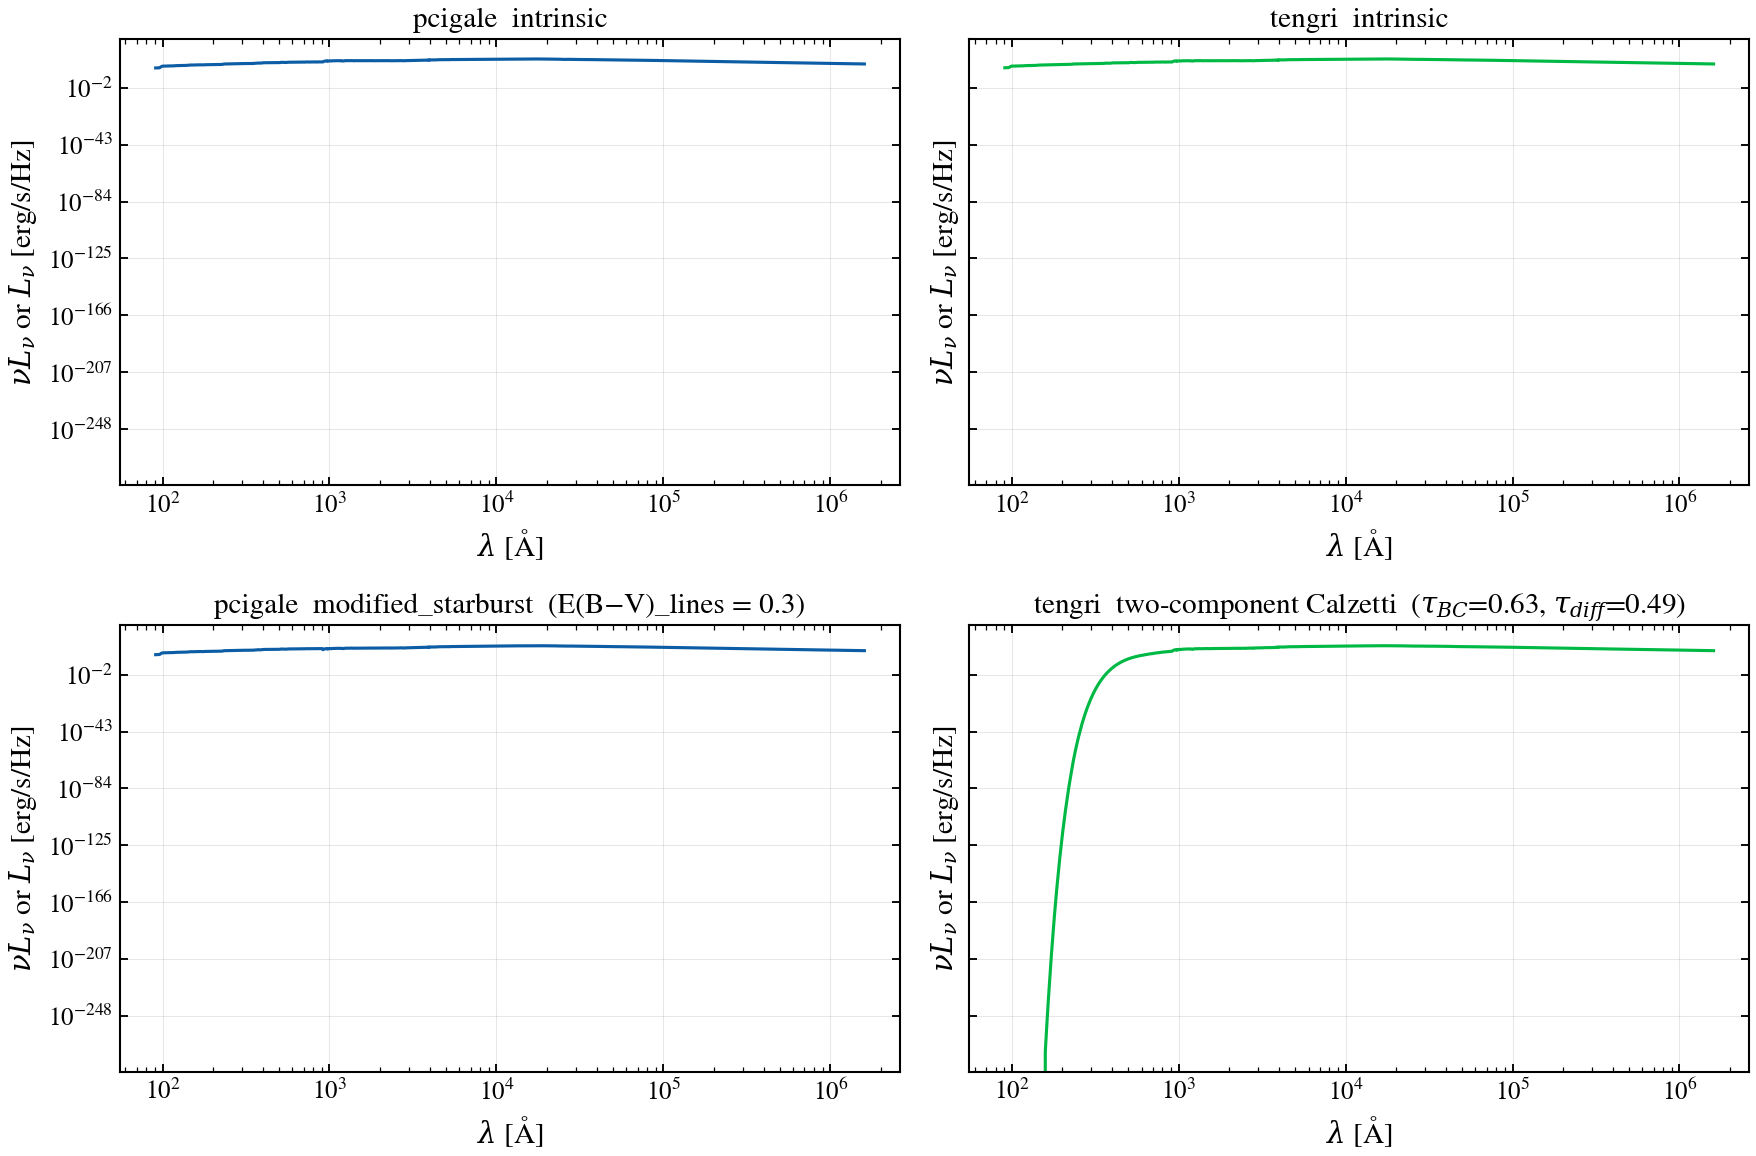
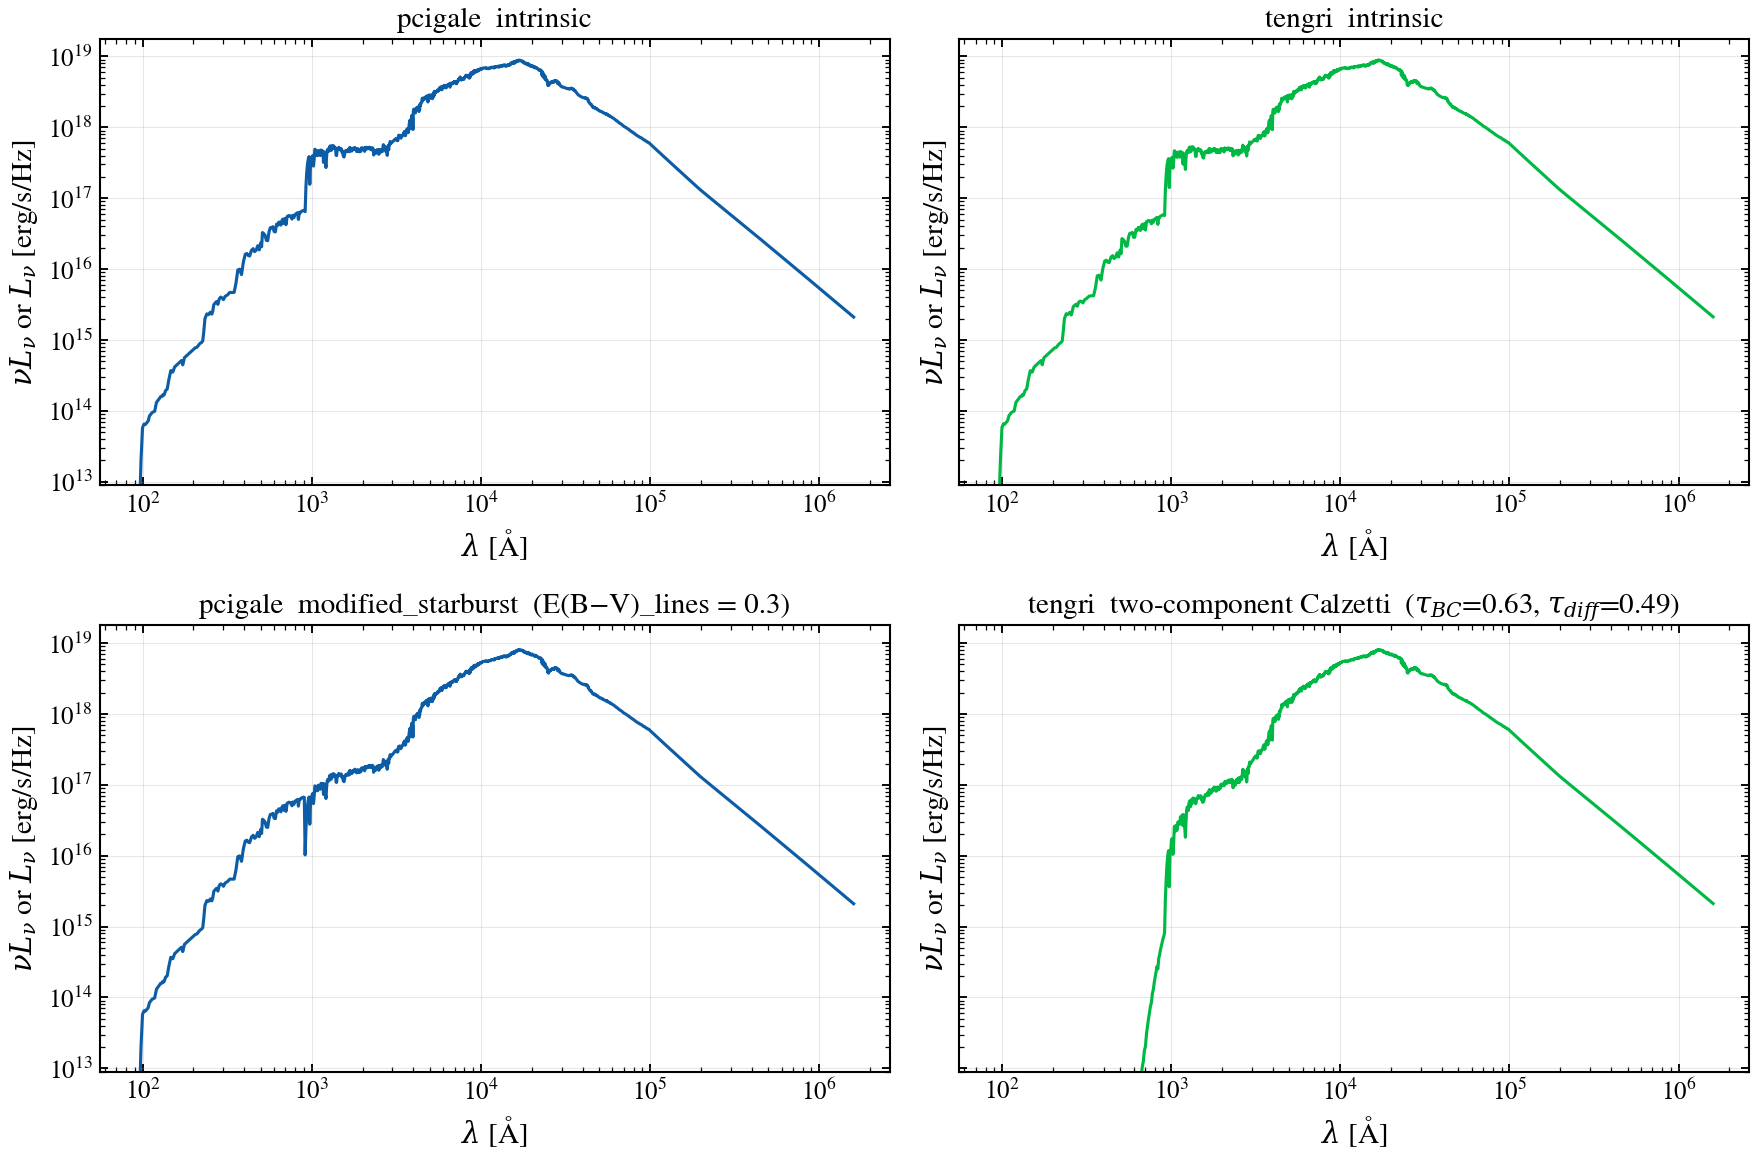
fix(reproduction/cigale): §5 bound y-axis so attenuated SED doesn't blow up to 10^-248
The attenuated SED hits zero at very deep UV; matplotlib's log autoscale
on a sharey=True 2x2 grid was then extending the y-axis down to 10^-248
to accommodate, compressing all the data to a thin strip at the top.
Set explicit ylim = (ymax * 1e-6, ymax * 2) so all four panels share a
6-decade window centred on the actual SED range.

The visual comparison is now what was intended: top row shows intrinsic
SEDs on both sides; bottom row shows the attenuation pattern (UV
suppressed, FIR preserved). tengri's two-component Calzetti tracks
CIGALE's modified_starburst.

diff --git a/reproduction/cigale/01_cigale.py b/reproduction/cigale/01_cigale.py
@@ -533,7 +533,9 @@ ax_l1.plot(w_c_nd, L_c_nd, "C0-", linewidth=1.5)
 ax_r1.plot(s_nd.wave, s_nd.sed_intrinsic, "C1-", linewidth=1.5)
 ax_l2.plot(w_c_d, L_c_d, "C0-", linewidth=1.5)
 ax_r2.plot(s_d.wave, s_d.derived["sed_dust_attenuated"], "C1-", linewidth=1.5)
+_ymax = float(np.asarray(s_nd.sed_intrinsic).max())
 for ax in (ax_l1, ax_r1, ax_l2, ax_r2):
+    ax.set_ylim(_ymax * 1e-6, _ymax * 2)
     ax.grid(True, alpha=0.3)
 fig.tight_layout()
 fig.savefig(str(figs_dir / "05_dust_attenuation_applied.png"), dpi=150, bbox_inches="tight")
